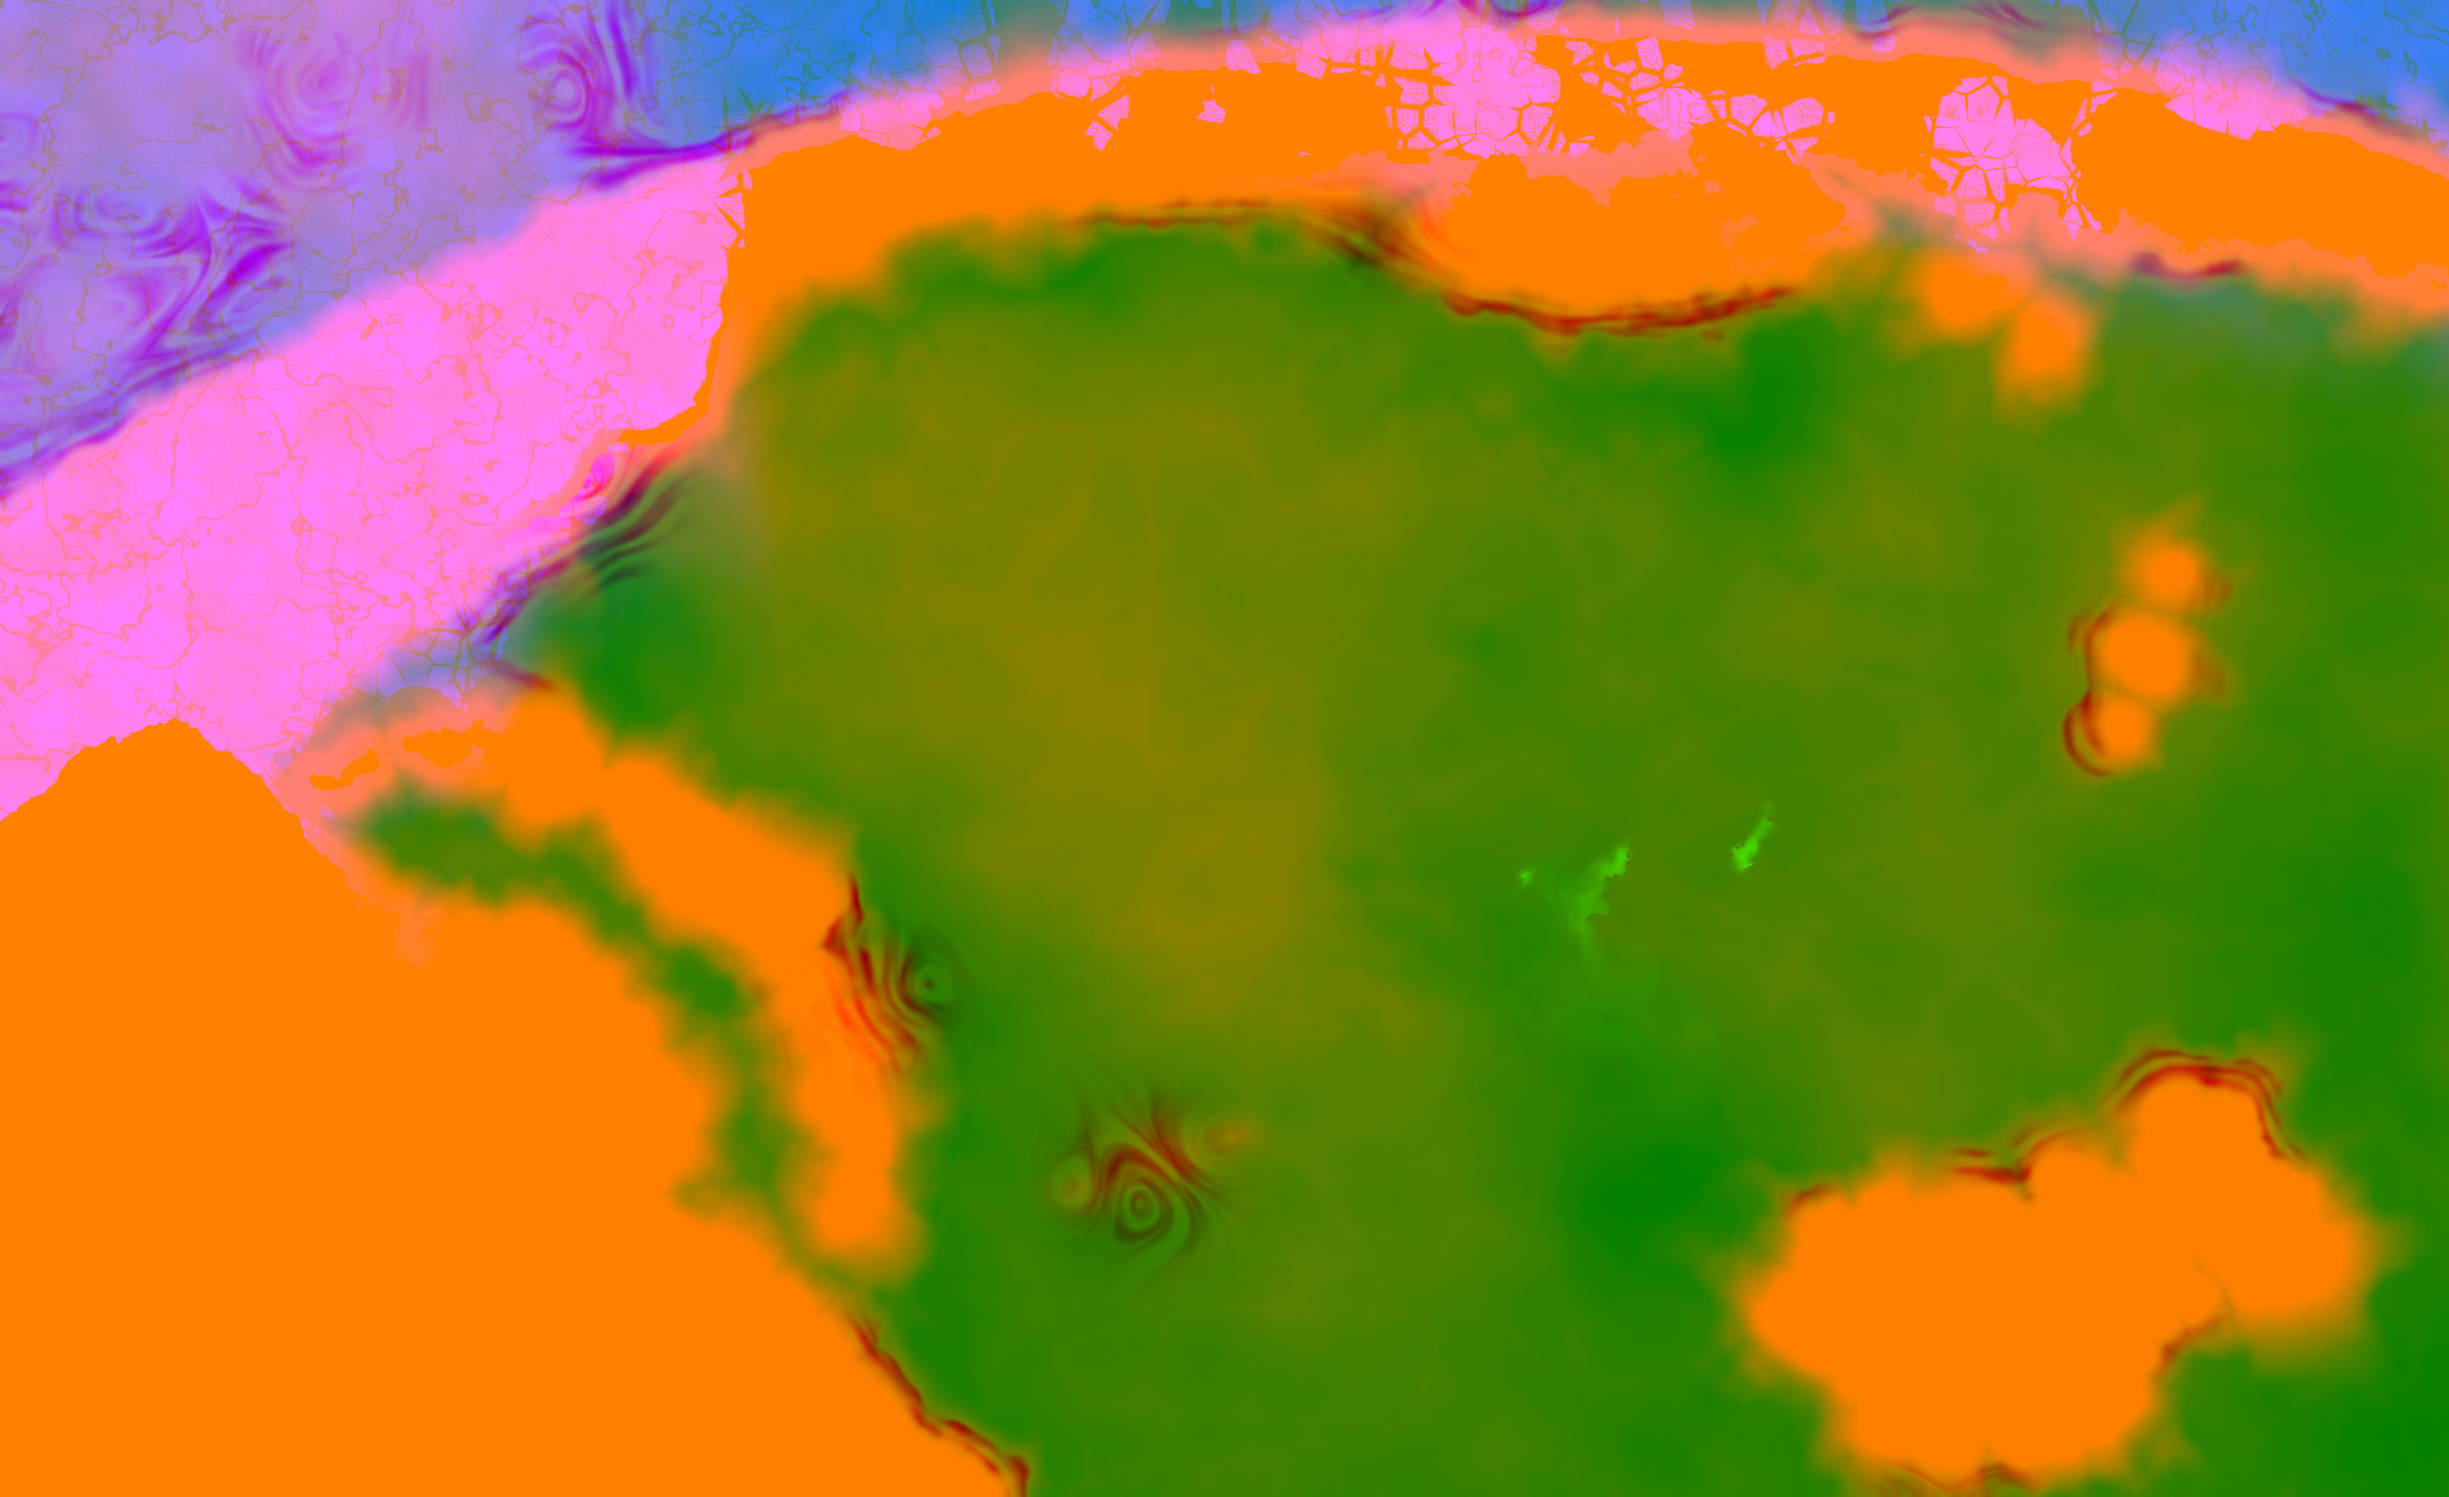
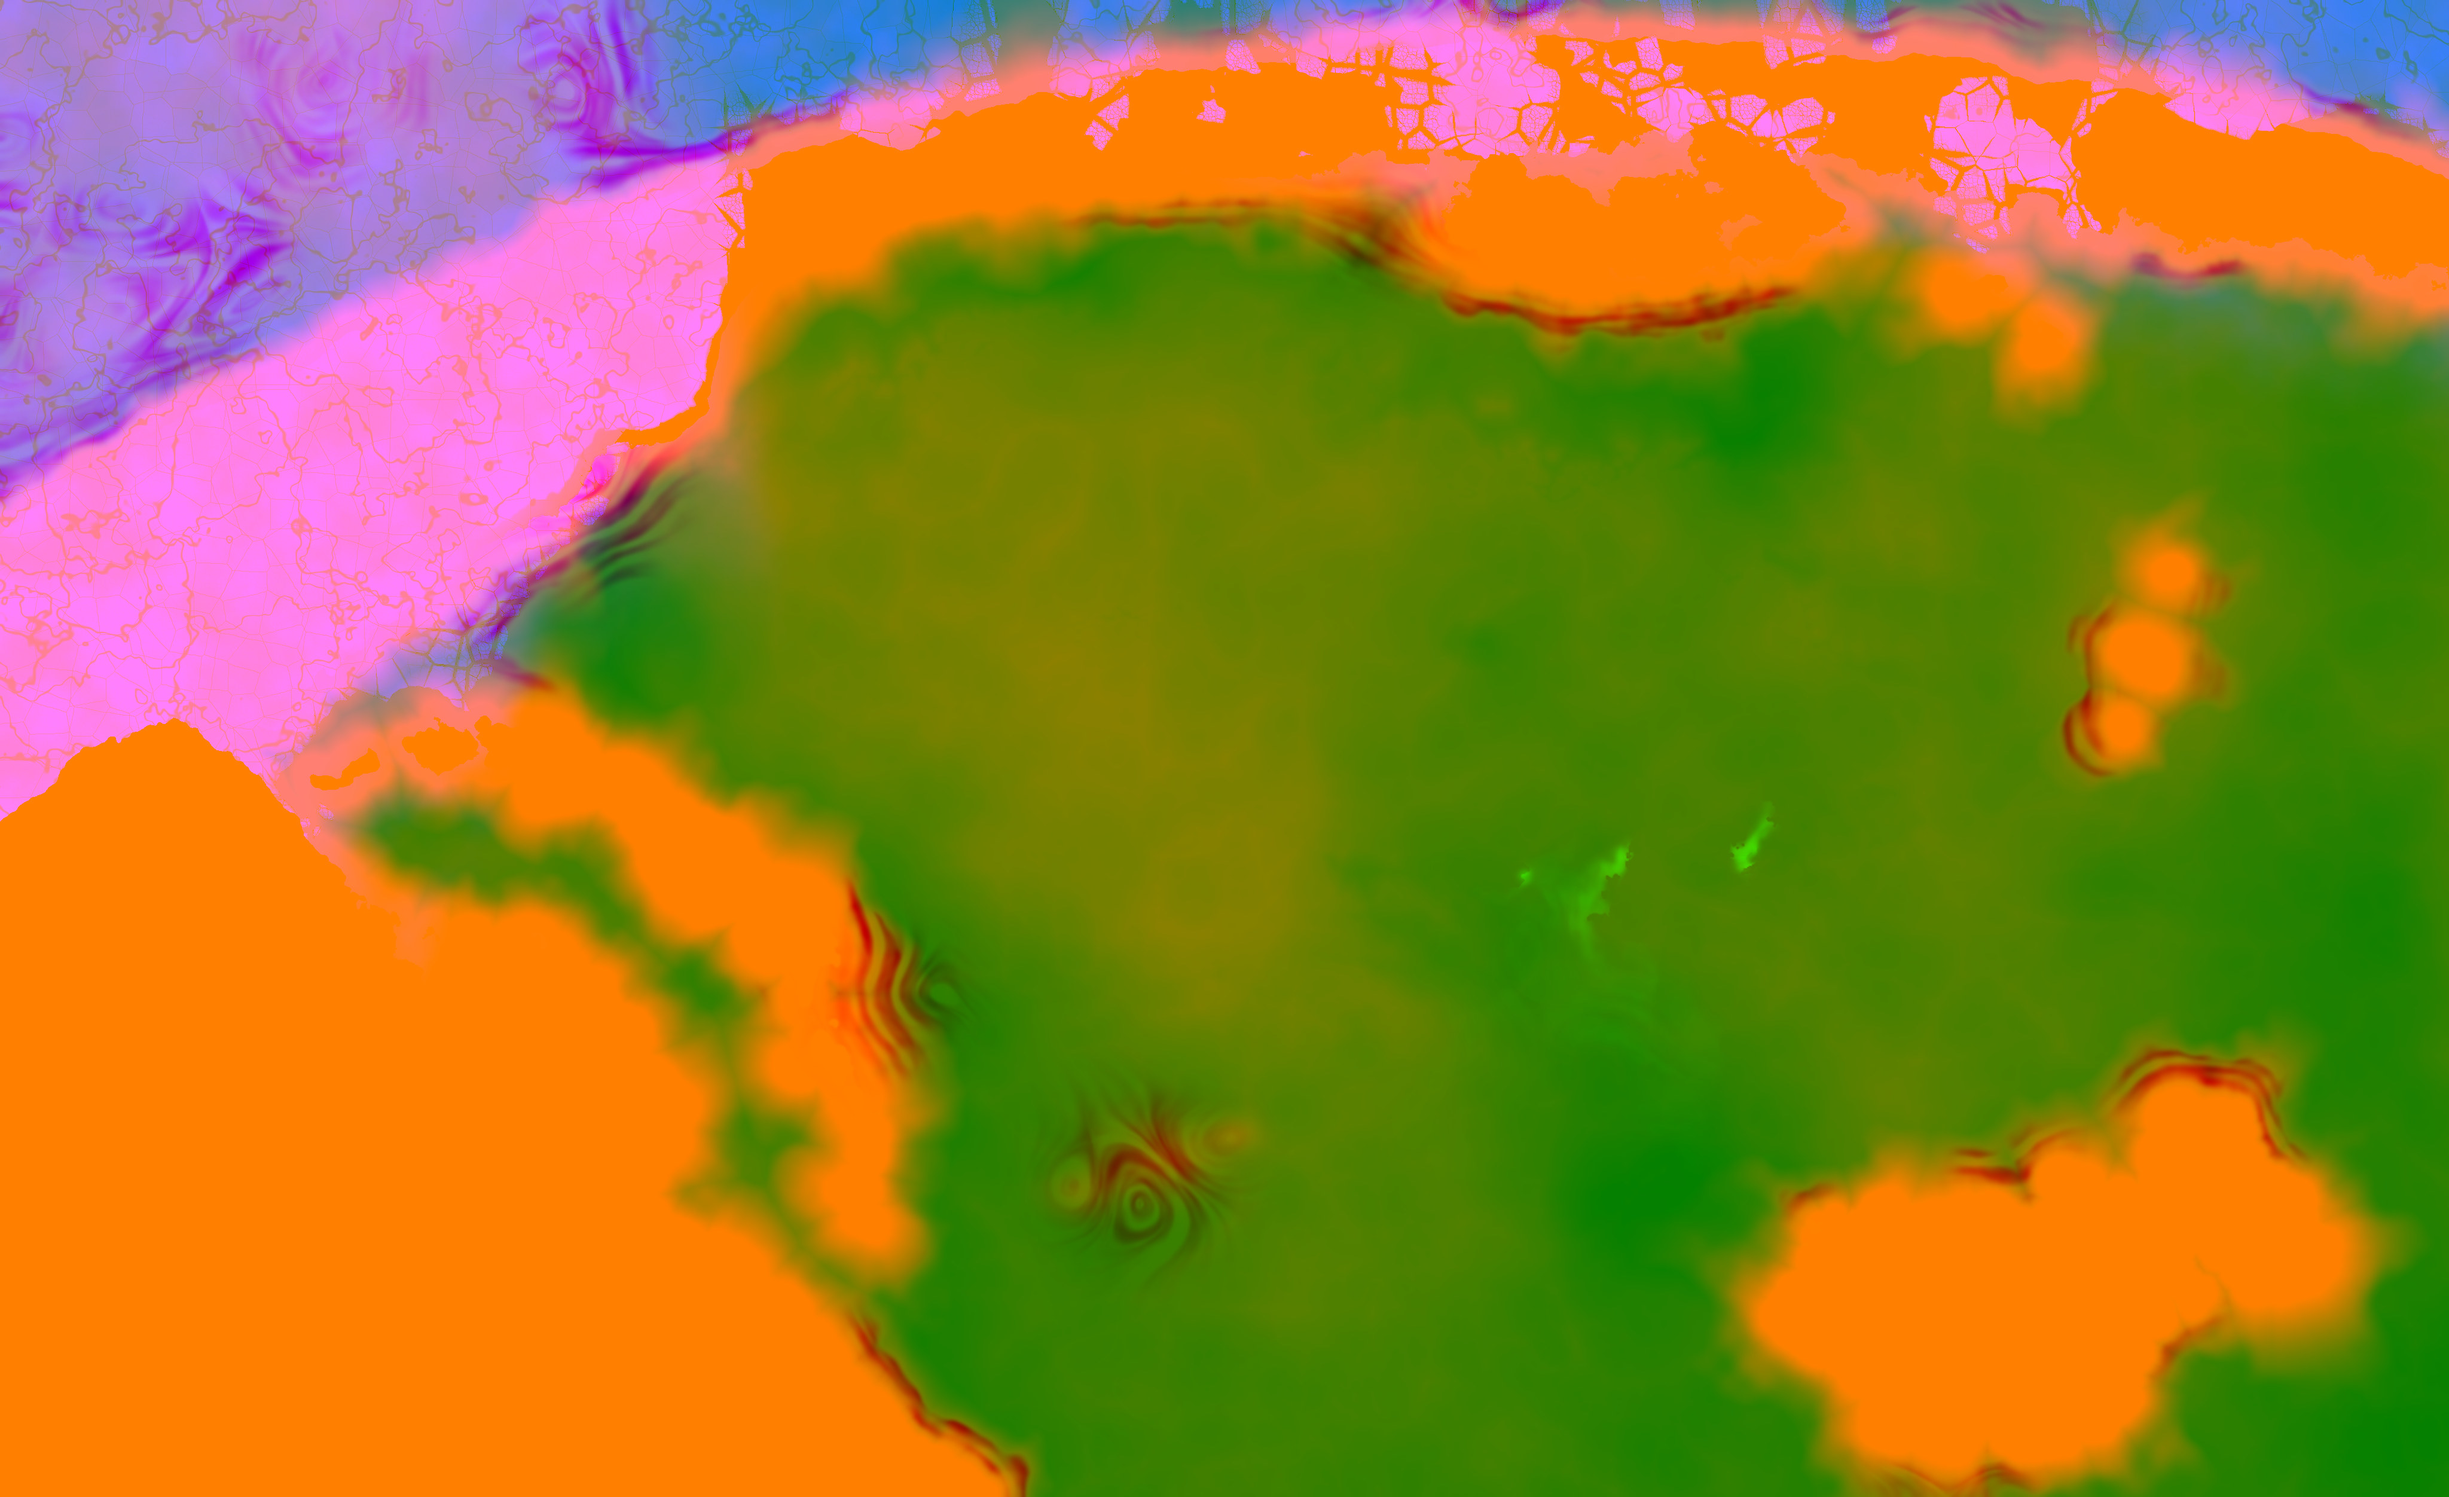
Sea from orbit, V3: amount E by the lead's ruling, ice dimmer and bluer so it stays under the bones at 11100

Changed region(s): [[0.25, 0.5919, 0.4062, 0.8722], [0.1562, 0.4361, 0.2812, 0.5607]]

diff --git a/src/places/reveal/land/ocean.ts b/src/places/reveal/land/ocean.ts
@@ -89,7 +89,7 @@ vec3 oceanOther(vec3 water, vec3 landAt, vec3 bedAt, vec3 light, vec3 glare, vec
   // (The pack and the sheet on the far land: blue grey where it is thin and in its leads, blue white where it is thick, blue in
   // the shade of its own relief. Never the bone's ivory. Into the air of the planet's edge it goes bluer and dimmer.)
   float ice = smoothstep(0.52, 0.8, bedAt.b) * seen;
-  vec3 pack = mix(vec3(0.2, 0.3, 0.37), vec3(0.37, 0.465, 0.565), smoothstep(0.7, 0.98, bedAt.b));
+  vec3 pack = mix(vec3(0.155, 0.235, 0.3), vec3(0.28, 0.36, 0.45), smoothstep(0.7, 0.98, bedAt.b));
   pack *= mix(vec3(1.0), mix(vec3(0.5, 0.64, 0.84), vec3(1.0), clamp(lit, 0.0, 1.0)) * min(lit, 1.25), isle);
   pack *= mix(vec3(0.42, 0.56, 0.74), vec3(1.0), smoothstep(0.04, 0.3, mu));
   // (Under the moon it is a grey a little over the sea's and well under the cloud's.)

diff --git a/assets-src/reveal/land/ocean/make_ocean.py b/assets-src/reveal/land/ocean/make_ocean.py
@@ -23,7 +23,7 @@ def arg(name, default):
 
 QUICK = '--quick' in sys.argv
 FAST = QUICK or '--fast' in sys.argv      # no erosion and short streaks: for trying the layout, the bed or the silt
-AMOUNT = arg('--amount', 'D')
+AMOUNT = arg('--amount', 'E')
 ICE = float(arg('--ice', '1.0'))
 W, H = (1024, 626) if QUICK else (4096, 2504)
 X0, Y0, PW = -1800.0, -800.0, 9216.0

diff --git a/assets-src/reveal/land/ocean/RECIPE.md b/assets-src/reveal/land/ocean/RECIPE.md
@@ -4,8 +4,8 @@
 
 Made by: `assets-src/reveal/land/ocean/make_ocean.py` (Python 3, numpy, OpenCV, Pillow). No image model.
 From: `assets-src/reveal/land/ocean/body-10027.png` (the part reveal/continent drawn alone at film frame 10027, review hd: where the film draws the body), and fixed seeds in the script.
-Prompt or command: `python3 assets-src/reveal/land/ocean/make_ocean.py` from the repo root (amount D is the default). Writes `public/assets/reveal/land/ocean-bed.jpg`, `ocean-land.jpg` and `assets-src/reveal/land/ocean/ocean-mask.png`.
-Takes: the last of about 31 runs (not counted one by one) as the layout, the bed, the ice and the silt were tuned.
+Prompt or command: `python3 assets-src/reveal/land/ocean/make_ocean.py` from the repo root (amount E is the default). Writes `public/assets/reveal/land/ocean-bed.jpg`, `ocean-land.jpg` and `assets-src/reveal/land/ocean/ocean-mask.png`.
+Takes: the last of about 32 runs (not counted one by one) as the layout, the bed, the ice and the silt were tuned.
 Why this one: the sea of the titan frame was one navy. The map gives it a bed (red: basins, a rise to the body, a trench and a platform for the island arc, banks, the shelves of the other land), bloom drawn out along one current field that follows the lines of equal depth and the silt of three rivers of the lower leg, carried from their mouths by that same field (green: under a half bloom, over it silt), and the cold water and the ice (blue: under 0.45 cold, over 0.5 ice: a sheet that lies on over the far land to the planet's edge, bare rock at its shore where it faces the body, and before it on the sea a pack whose hard seaward edge runs along the sides of rafts some hundreds of km across, with wide dark leads between them). 4096 x 2504 over the master rectangle x -1800 to 7416, y -800 to 4834.
 Date: 2026-11-28
 
@@ -13,7 +13,7 @@ Date: 2026-11-28
 
 Made by: `assets-src/reveal/land/ocean/make_ocean.py` (Python 3, numpy, OpenCV, Pillow). No image model.
 From: `assets-src/reveal/land/ocean/body-10027.png` and fixed seeds in the script.
-Prompt or command: `python3 assets-src/reveal/land/ocean/make_ocean.py` from the repo root (the same run as ocean-bed.jpg). `--amount A`, `C` and `B` give less of the other land, `E` larger islands in the arc.
-Takes: the last of about 31 runs. Amounts A, C and B, then B, D and E were drawn side by side for the lead; D is kept until the lead chooses.
+Prompt or command: `python3 assets-src/reveal/land/ocean/make_ocean.py` from the repo root (the same run as ocean-bed.jpg). `--amount A`, `C`, `B` and `D` give less of the other land; `E` has the largest islands in the arc.
+Takes: the last of about 32 runs. Amounts A, C and B, then B, D and E were drawn side by side for the lead; E is kept by the lead's ruling.
 Why this one: Brandon's note of 27 November: no other landmasses. An island arc of unlike volcanic islands convex toward the body, low islands on rises at the top and in the sun's image, a far coast under the planet's edge and, from amount D, a mainland behind the arc that runs on out of the map at the lower left, a land at the top edge of the titan's frame right of where the upper hand points and a land below the hurricane that the pull back uncovers, each a height field cut by a stream power erosion (red, green: its slope; blue: its height, over 0.3 land, under it how shallow the water by it is). Nothing nearer the body than 330 px of the master, nothing by the hurricane.
 Date: 2026-11-28

diff --git a/assets-src/reveal/ROWS-reveal_ocean_builder_n30.md b/assets-src/reveal/ROWS-reveal_ocean_builder_n30.md
@@ -2,5 +2,5 @@
 
 | file | what | tool or model | prompt | take | date |
 | --- | --- | --- | --- | --- | --- |
-| public/assets/reveal/land/ocean-bed.jpg | the sea from orbit over the master rectangle x -1800 to 7416, y -800 to 4834: red the sea bed (0 the deepest basin, 1 a shoal), green bloom along the currents (under a half) and the silt of three rivers (over it), blue the cold of the water (under 0.45) and the ice (over 0.5). 4096 x 2504 | assets-src/reveal/land/ocean/make_ocean.py (numpy, OpenCV, Pillow) from assets-src/reveal/land/ocean/body-10027.png and fixed seeds | none: no image model | last of about 31 runs | 2026-11-28 |
-| public/assets/reveal/land/ocean-land.jpg | the other land over the same rectangle: red and green its slope, blue its height (over 0.3 land, under it how shallow the water by it is). 4096 x 2504 | the same run of make_ocean.py | none: no image model | last of about 31 runs | 2026-11-28 |
+| public/assets/reveal/land/ocean-bed.jpg | the sea from orbit over the master rectangle x -1800 to 7416, y -800 to 4834: red the sea bed (0 the deepest basin, 1 a shoal), green bloom along the currents (under a half) and the silt of three rivers (over it), blue the cold of the water (under 0.45) and the ice (over 0.5). 4096 x 2504 | assets-src/reveal/land/ocean/make_ocean.py (numpy, OpenCV, Pillow) from assets-src/reveal/land/ocean/body-10027.png and fixed seeds | none: no image model | last of about 32 runs | 2026-11-28 |
+| public/assets/reveal/land/ocean-land.jpg | the other land over the same rectangle: red and green its slope, blue its height (over 0.3 land, under it how shallow the water by it is). 4096 x 2504 | the same run of make_ocean.py | none: no image model | last of about 32 runs | 2026-11-28 |
